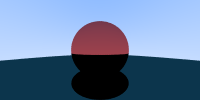
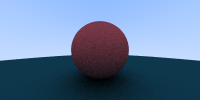
fixed diffusion bug

Changed region(s): [[0.3, 0.3, 0.69, 1.0]]

diff --git a/source/main.cpp b/source/main.cpp
@@ -43,7 +43,7 @@ getColor (
             scatterRay
         );
 
-        if (scatterRayHit && p_depth < 1) {
+        if (scatterRayHit && p_depth < 10) {
             return attenuation * getColor(scatterRay, p_world, p_depth+1);
         } else {
             return Vector3(0,0,0);

diff --git a/source/Lambertian.cpp b/source/Lambertian.cpp
@@ -23,7 +23,7 @@ Lambertian::scatter (
     p_attenuation = m_albedo->value(0, 0, p_record.point);
     p_scatterOut = Ray(
         p_record.point, 
-        p_record.normal
+        p_record.normal + Random::unitSphere()
     );
 
     return true;
